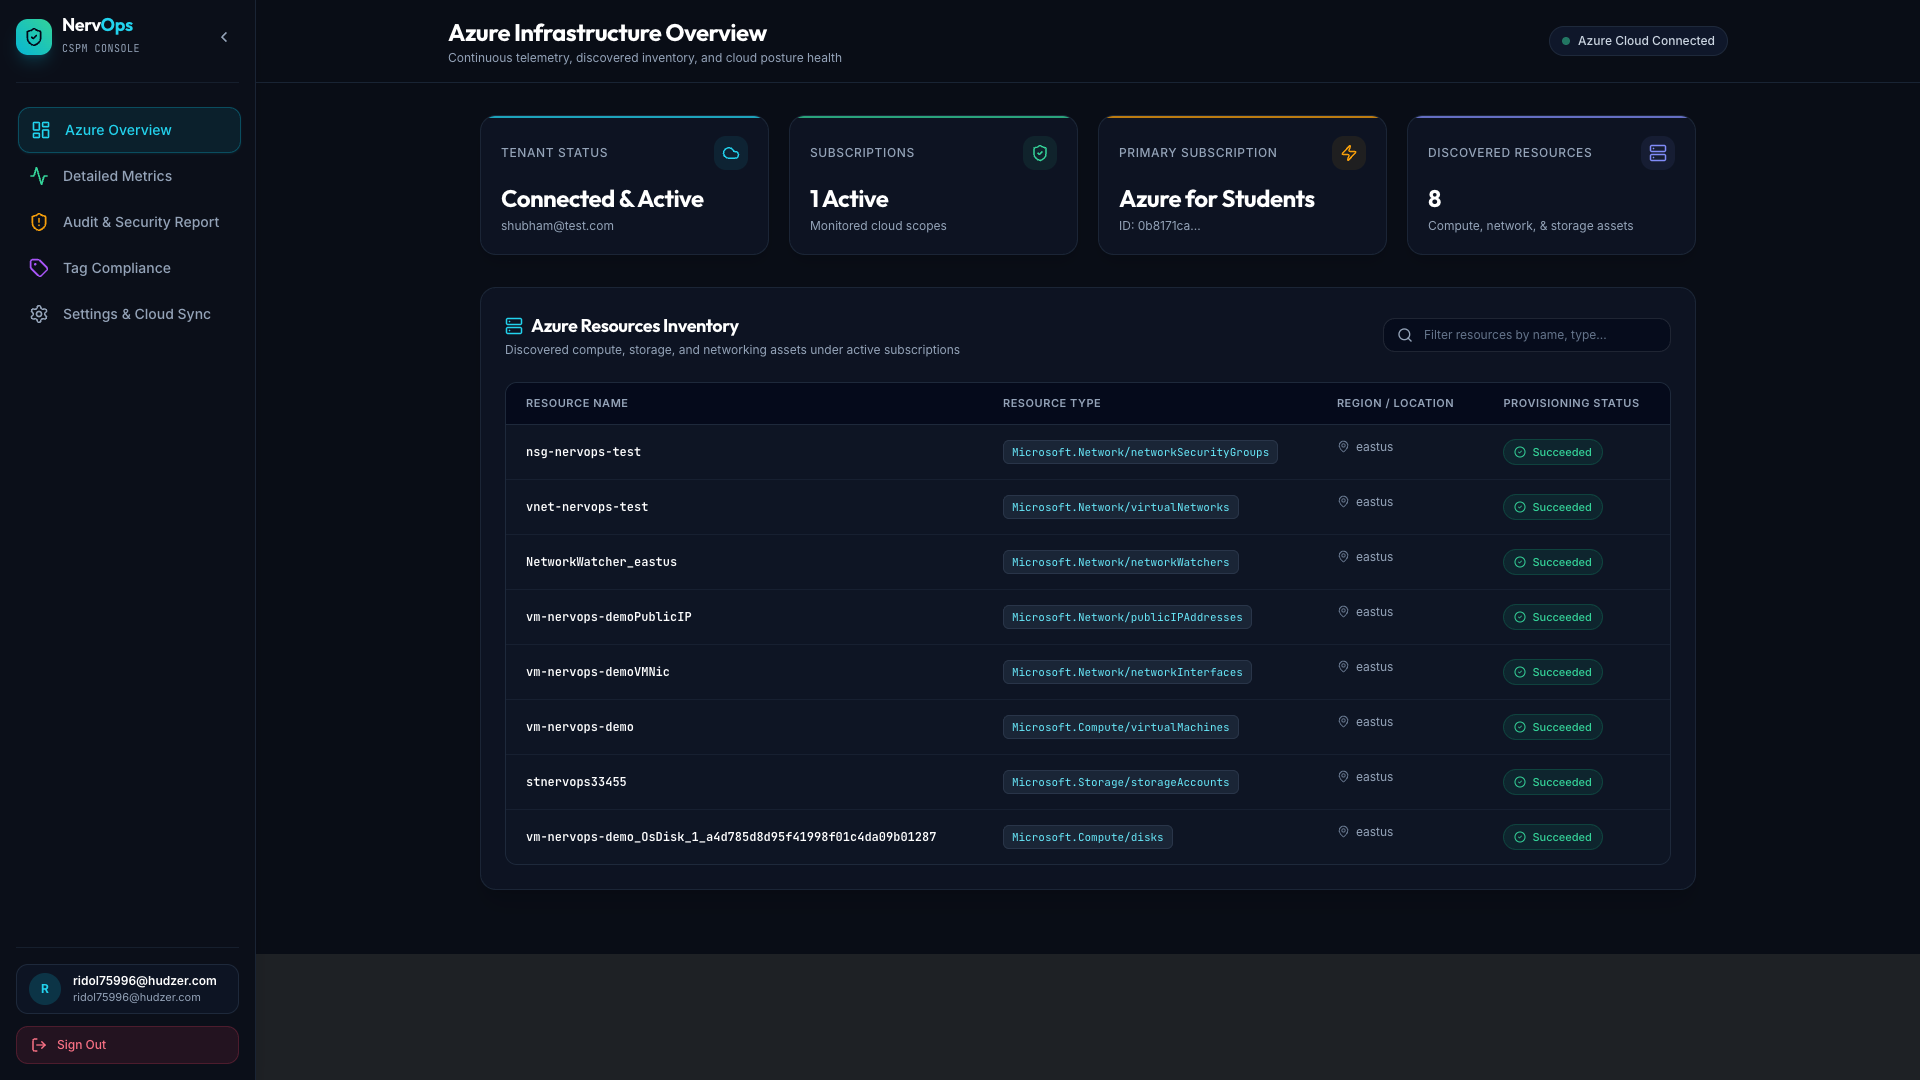
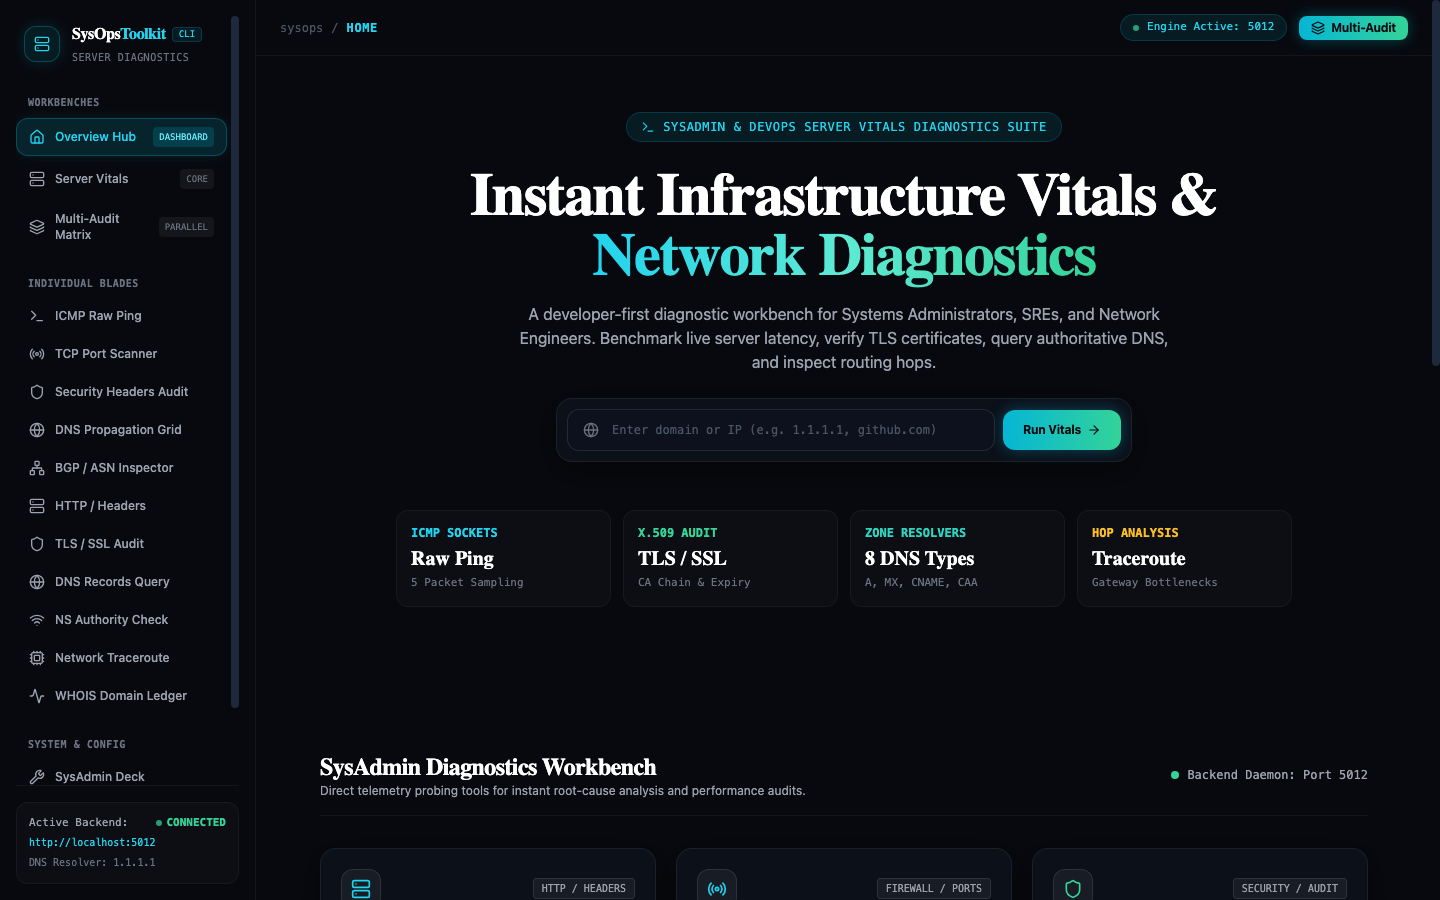
docs: replace old CSPM imagery with authentic UptimeFury diagnostic suite screenshots

diff --git a/README.md b/README.md
@@ -4,21 +4,28 @@
 [![React 18](https://img.shields.io/badge/React-18.x-61DAFB?style=for-the-badge&logo=react)](https://react.dev/)
 [![Vite](https://img.shields.io/badge/Vite-5.x-646CFF?style=for-the-badge&logo=vite)](https://vitejs.dev/)
 [![Tailwind CSS](https://img.shields.io/badge/Tailwind-3.x-38B2AC?style=for-the-badge&logo=tailwind-css)](https://tailwindcss.com/)
+[![Backend Engine](https://img.shields.io/badge/backend%20daemon-Render%20Online-00e5a3?style=for-the-badge&logo=render)](https://uptime-monitor-backend-latest.onrender.com)
 [![Docker Image](https://img.shields.io/badge/backend%20docker-ready-2496ED?style=for-the-badge&logo=docker)](https://hub.docker.com/r/shubhamaggarwal828/uptime-monitor-backend)
 
 > A modern, developer-first diagnostic workbench built for Systems Administrators, SREs, and Network Engineers. Benchmark live server latency, perform asynchronous TCP socket audits, inspect global Anycast DNS propagation, analyze HTTP security posture, and inspect BGP autonomous systems.
 
 ---
 
-## 📸 Screenshots & UI Showcase
+## 📸 Real Application Showcase
 
 ### 1. Unified Overview Hub
 ![Overview Hub](docs/images/dashboard-preview.png)
 
-### 2. HTTP Security Posture & Vulnerability Audit
+### 2. Distributed ICMP Ping & Latency Telemetry
+![ICMP Ping](docs/images/ping-diagnostics.png)
+
+### 3. Asynchronous TCP Port Scanner
+![TCP Port Scanner](docs/images/port-scanner.png)
+
+### 4. HTTP Security Posture & Vulnerability Audit
 ![Security Audit](docs/images/security-audit.png)
 
-### 3. SysOps Settings Vault & Probe Manager
+### 5. SysOps Settings Vault & Active Probe Node
 ![Settings Vault](docs/images/settings-vault.png)
 
 ---
